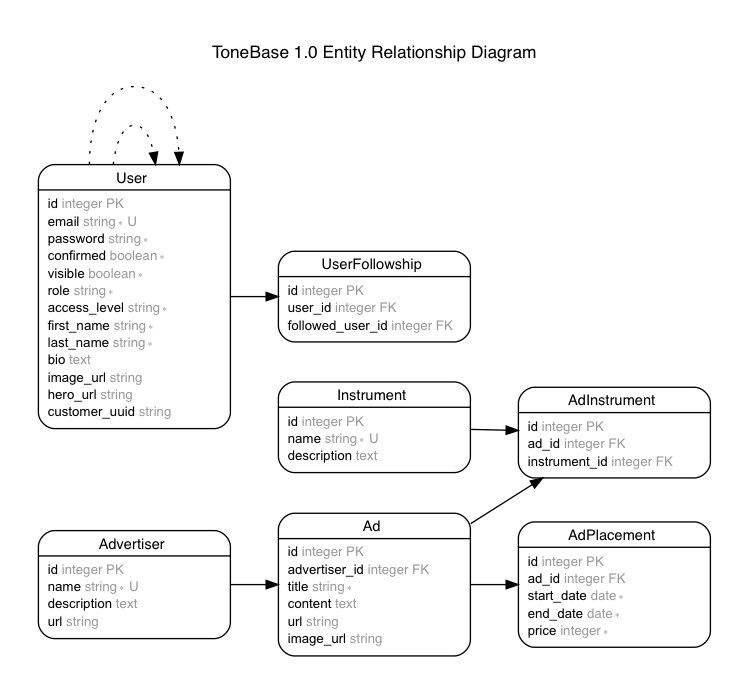
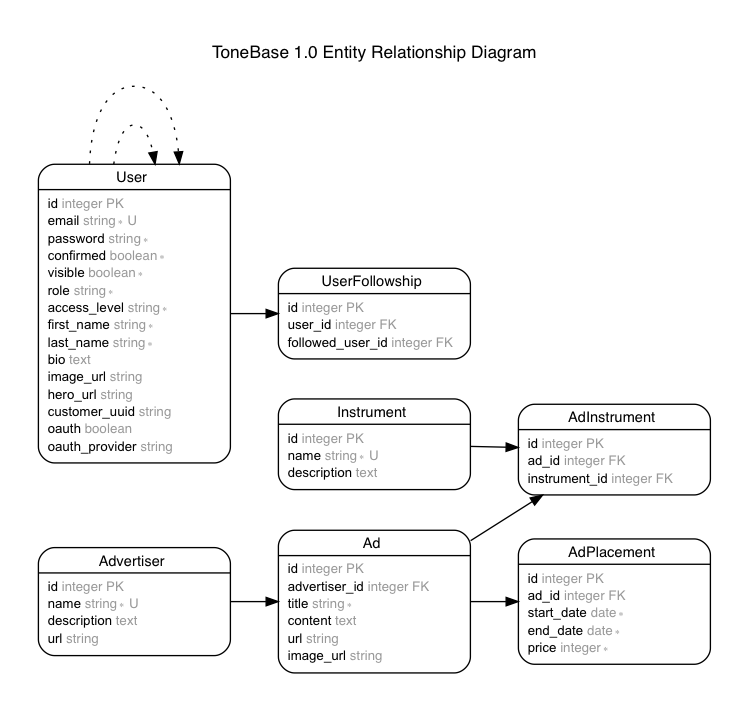
Auth (#11)
* Document changes

* Test changes

* Implement expectations, improve controller #create tests

diff --git a/db/schema.rb b/db/schema.rb
@@ -72,23 +72,26 @@ ActiveRecord::Schema.define(version: 20170603192120) do
   end
 
   create_table "users", force: :cascade do |t|
-    t.string   "email",         null: false
-    t.string   "password",      null: false
-    t.boolean  "confirmed",     null: false
-    t.boolean  "visible",       null: false
-    t.string   "role",          null: false
-    t.string   "access_level",  null: false
-    t.string   "first_name",    null: false
-    t.string   "last_name",     null: false
+    t.string   "email",          null: false
+    t.string   "password",       null: false
+    t.boolean  "confirmed",      null: false
+    t.boolean  "visible",        null: false
+    t.string   "role",           null: false
+    t.string   "access_level",   null: false
+    t.string   "first_name",     null: false
+    t.string   "last_name",      null: false
     t.text     "bio"
     t.string   "image_url"
     t.string   "hero_url"
     t.string   "customer_uuid"
-    t.datetime "created_at",    null: false
-    t.datetime "updated_at",    null: false
+    t.boolean  "oauth"
+    t.string   "oauth_provider"
+    t.datetime "created_at",     null: false
+    t.datetime "updated_at",     null: false
     t.index ["access_level"], name: "index_users_on_access_level", using: :btree
     t.index ["confirmed"], name: "index_users_on_confirmed", using: :btree
     t.index ["email"], name: "index_users_on_email", unique: true, using: :btree
+    t.index ["oauth"], name: "index_users_on_oauth", using: :btree
     t.index ["role"], name: "index_users_on_role", using: :btree
     t.index ["visible"], name: "index_users_on_visible", using: :btree
   end

diff --git a/spec/support/api/v1/create.rb b/spec/support/api/v1/create.rb
@@ -31,6 +31,16 @@ shared_examples_for "a create endpoint" do |model_class|
       it "should create a new resource" do
         expect{response}.to change{model_class.count}.by(1)
       end
+
+      it "should create a resource and persist all the relevant attributes" do
+        response
+        persisted_attributes = model_class.last.serializable_hash.deep_symbolize_keys
+        persisted_attributes.reject!{|k,_| [:id, :created_at, :updated_at].include?(k)}
+        persisted_attributes.each do |k,v|
+          persisted_attributes[k] = persisted_attributes[k].to_s if v.class == Date # convert Sat, 01 Jul 2017 to "2017-07-01"
+        end
+        expect(persisted_attributes).to include(resource_params)
+      end
     end
   end
 end

diff --git a/spec/factories/users.rb b/spec/factories/users.rb
@@ -12,6 +12,8 @@ FactoryGirl.define do
     image_url nil
     hero_url nil
     customer_uuid nil
+    oauth nil
+    oauth_provider nil
 
     trait :confirmed do
       confirmed true
@@ -25,6 +27,11 @@ FactoryGirl.define do
       bio "I love guitar and I'm hoping to get better!"
       image_url "https://my-bucket.s3.amazonaws.com/my-dir/my-image.jpg"
       hero_url "https://my-bucket.s3.amazonaws.com/my-dir/hero-image.jpg"
+    end
+
+    trait :with_oauth do
+      oauth true
+      oauth_provider "Google"
     end
 
     #

diff --git a/spec/controllers/api/v1/users_controller_spec.rb b/spec/controllers/api/v1/users_controller_spec.rb
@@ -66,7 +66,9 @@ RSpec.describe Api::V1::UsersController, type: :controller do
           bio: "I love guitar and I'm hoping to get better!",
           image_url: "https://my-bucket.s3.amazonaws.com/my-dir/my-image.jpg",
           hero_url: "https://my-bucket.s3.amazonaws.com/my-dir/hero-image.jpg",
-          customer_uuid: "cus_abc123def45678"
+          customer_uuid: "cus_abc123def45678",
+          oauth: true,
+          oauth_provider: "Google",
         }
       }
     end

diff --git a/db/migrate/20170602171719_create_users.rb b/db/migrate/20170602171719_create_users.rb
@@ -13,6 +13,8 @@ class CreateUsers < ActiveRecord::Migration[5.0]
       t.string :image_url
       t.string :hero_url
       t.string :customer_uuid
+      t.boolean :oauth
+      t.string :oauth_provider
 
       t.timestamps
     end
@@ -22,5 +24,6 @@ class CreateUsers < ActiveRecord::Migration[5.0]
     add_index :users, :visible
     add_index :users, :role
     add_index :users, :access_level
+    add_index :users, :oauth
   end
 end

diff --git a/app/controllers/api/v1/users_controller.rb b/app/controllers/api/v1/users_controller.rb
@@ -41,6 +41,6 @@ private
   end
 
   def user_params
-    params.require(:user).permit(:email, :password, :confirmed, :visible, :role, :access_level, :first_name, :last_name, :bio, :image_url, :hero_url, :customer_uuid)
+    params.require(:user).permit(:email, :password, :confirmed, :visible, :role, :access_level, :first_name, :last_name, :bio, :image_url, :hero_url, :customer_uuid, :oauth, :oauth_provider)
   end
 end

diff --git a/spec/views/api/v1/users/index_spec.rb b/spec/views/api/v1/users/index_spec.rb
@@ -15,6 +15,7 @@ describe "api/v1/users/index.json.jbuilder" do
         :first_name, :last_name, :bio, :image_url, :hero_url,
         :follows, :followers,
         :customer_uuid,
+        :oauth, :oauth_provider,
         :created_at, :updated_at
       ])
     end

diff --git a/spec/views/api/v1/users/show_spec.rb b/spec/views/api/v1/users/show_spec.rb
@@ -13,6 +13,7 @@ describe "api/v1/users/show.json.jbuilder" do
       :first_name, :last_name, :bio, :image_url, :hero_url,
       :customer_uuid,
       :follows, :followers,
+      :oauth, :oauth_provider,
       :created_at, :updated_at
     ])
   end

diff --git a/app/controllers/api/v1/ads_controller.rb b/app/controllers/api/v1/ads_controller.rb
@@ -33,6 +33,6 @@ private
   end
 
   def ad_params
-    params.require(:ad).permit(:advertiser_id, :title, :message, :url, :image_url)
+    params.require(:ad).permit(:advertiser_id, :title, :content, :url, :image_url)
   end
 end

diff --git a/DOCS.md b/DOCS.md
@@ -277,6 +277,8 @@ bio | Text | A description of user interests, skills, and goals.
 image_url | String | The user's profile image source.
 hero_url | String | The user's hero/background image source.
 customer_uuid | String | References the payment service's customer resource.
+oauth | Boolean | Indicates if another service authenticates this user.
+oauth_provider | String | The other service which authenticates this user (i.e. `"Google"`, `"Facebook"`, etc.).
 
 Endpoints:
 
@@ -303,7 +305,9 @@ Example POST/PUT request body:
   bio: "I love guitar and I'm hoping to get better!",
   image_url: "https://my-bucket.s3.amazonaws.com/my-dir/my-image.jpg",
   hero_url: "https://my-bucket.s3.amazonaws.com/my-dir/hero-image.jpg",
-  customer_uuid: "cus_abc123def45678"
+  customer_uuid: "cus_abc123def45678",
+  oauth: true,
+  oauth_provider: "Google",
 }
 ````
 
